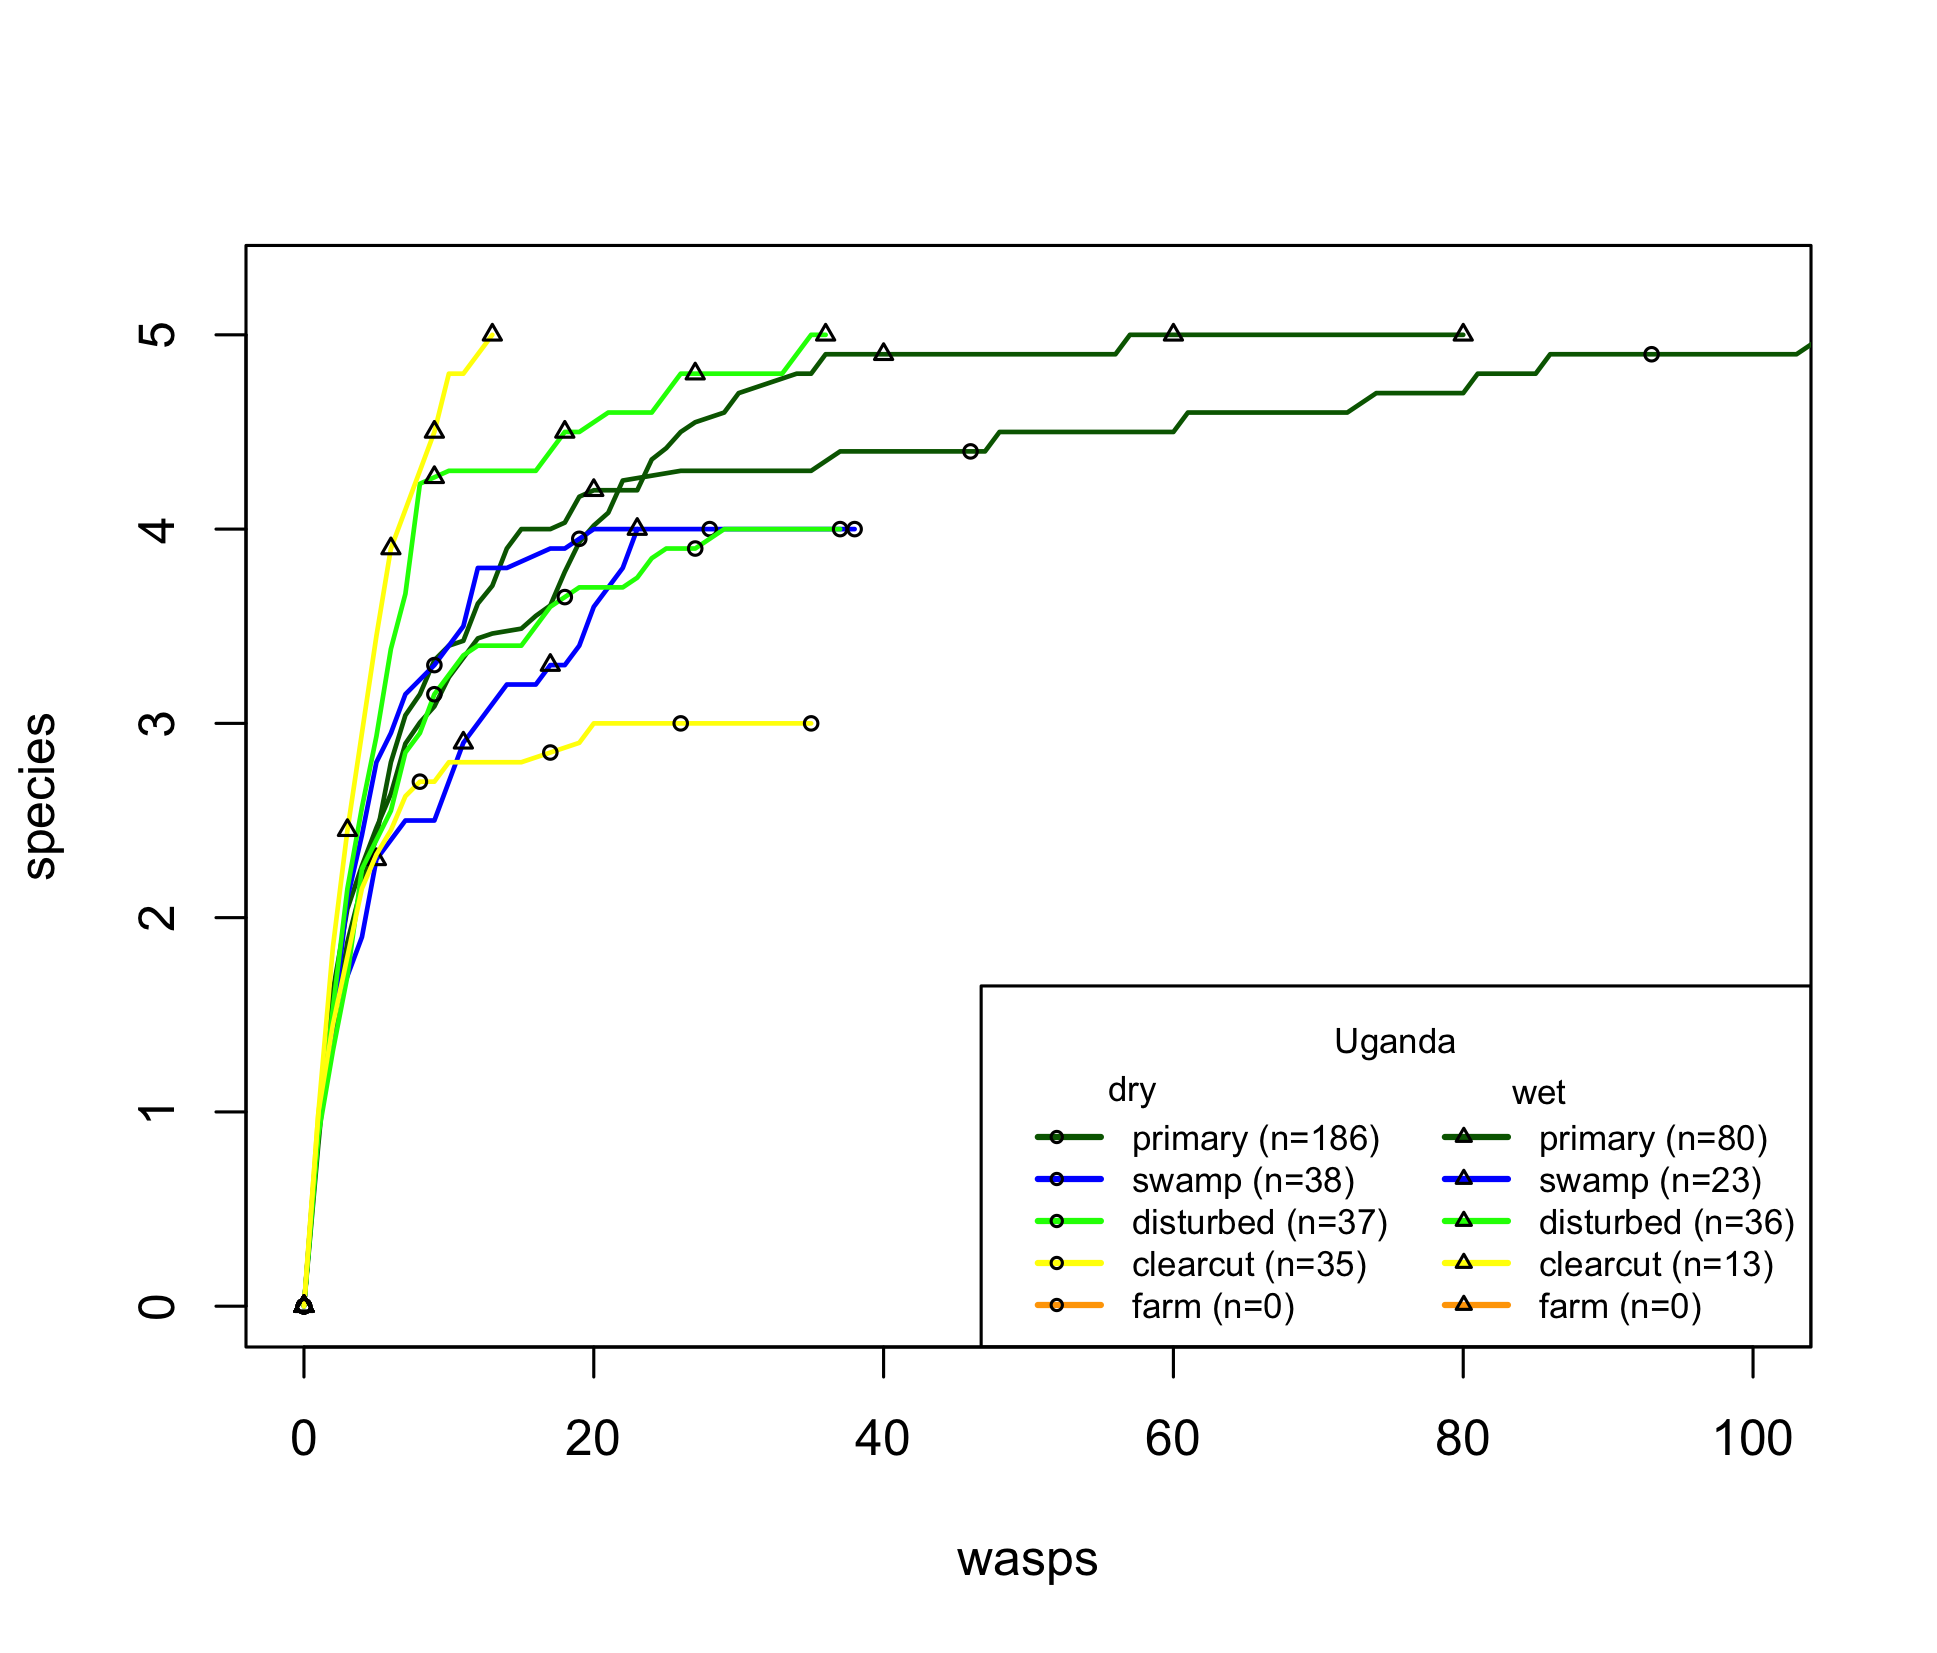
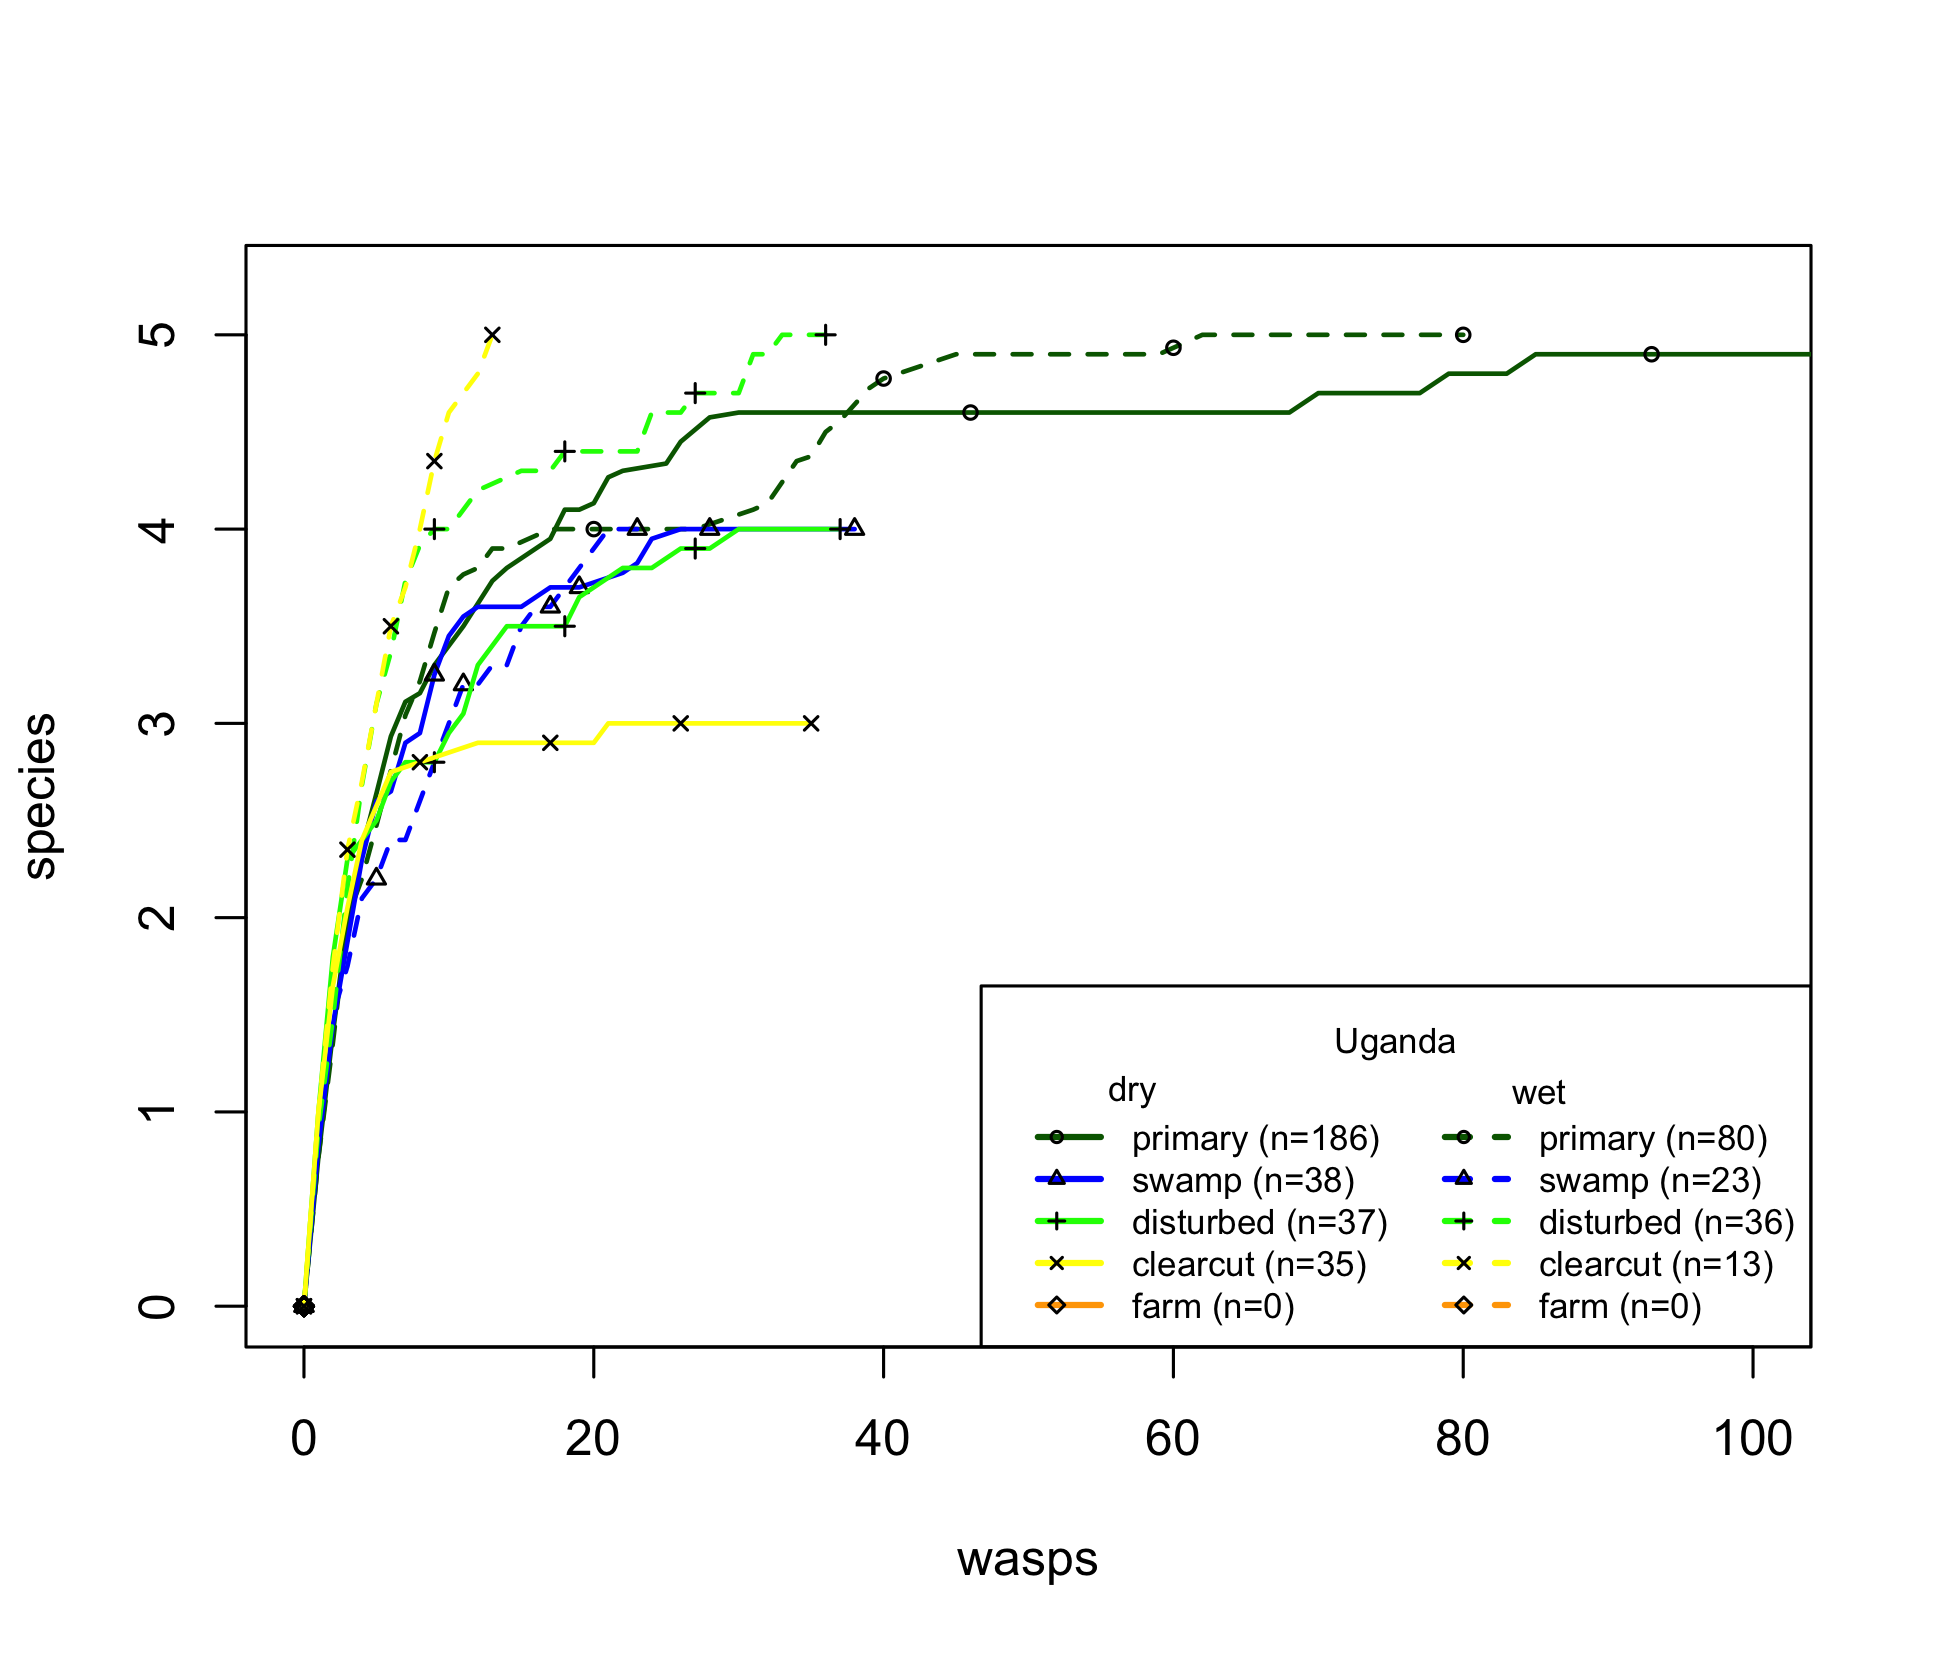
add line type lty to rarefaction

diff --git a/README.md b/README.md
@@ -134,7 +134,7 @@ wasps$forest_season = combine_columns(wasps, c("forest_type", "season"), all=TRU
 # plot rarefaction curves with separate curves for each forest type and season
 col = c(primary="darkgreen", swamp="blue", disturbed="green", clearcut="yellow", farm="orange")
 col = rep(col, each=2)
-r = plot_rarefaction(wasps, by="forest_season", col=col, pch=rep(1:2, 5), xlim=c(0, 100))
+r = plot_rarefaction(wasps, by="forest_season", col=col, lty=rep(1:2, 5), pch=rep(1:5, each=2), xlim=c(0, 100))
 
 # add a legend with dry and wet season in separate columns
 txt = rep(levels0(wasps$forest_type), each=2)
